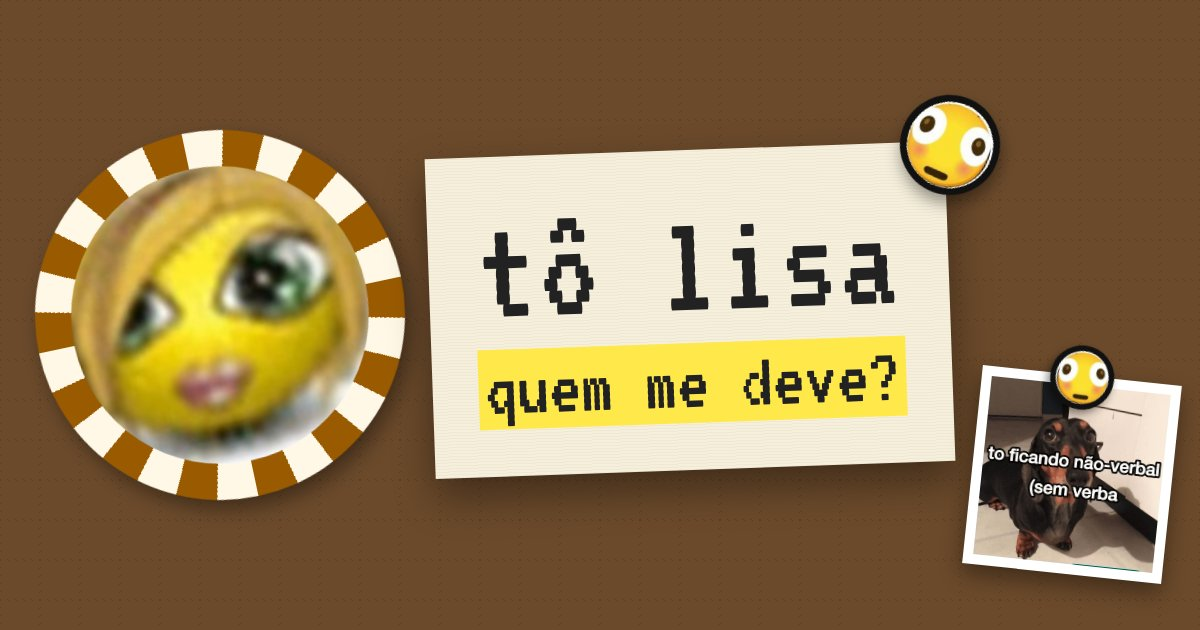
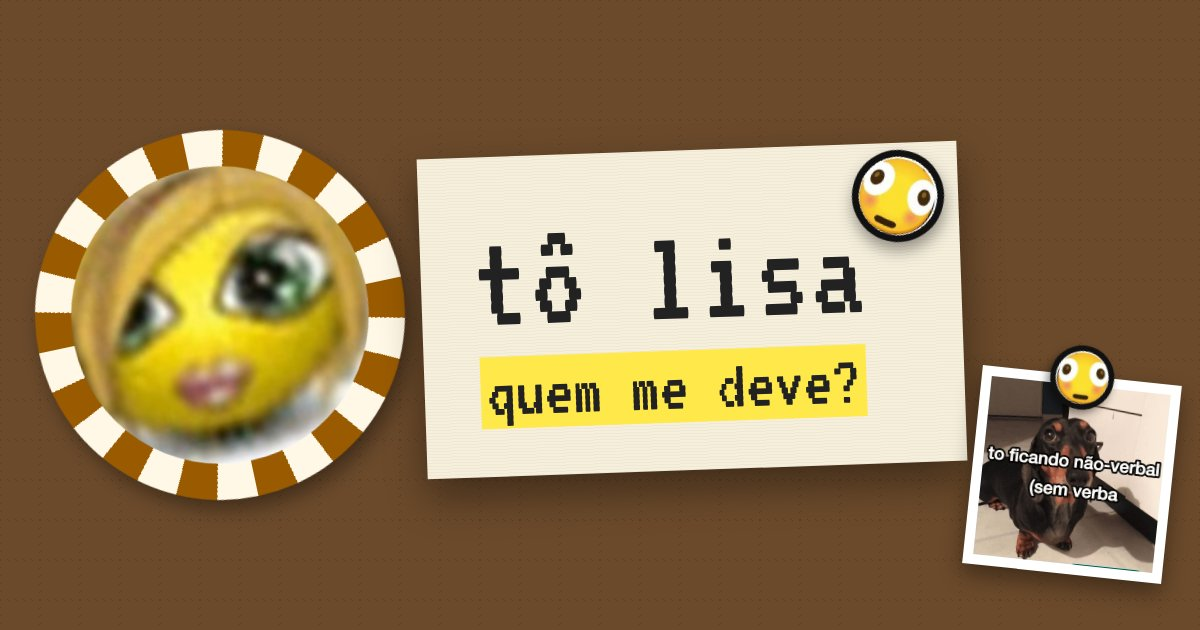
Previews no mesmo molde: pin segurando o papel e a foto, figurinha fora do papel
Claude-Session: https://claude.ai/code/session_01YTxERD5uG47DzpcJXF9uYP

Changed region(s): [[0.4008, 0.1508, 0.8325, 0.7238], [0.3392, 0.2413, 0.4008, 0.754], [0.4008, 0.3317, 0.4933, 0.5127]]

diff --git a/pago/index.html b/pago/index.html
@@ -16,7 +16,7 @@
 <meta property="og:image:type" content="image/jpeg">
 <meta property="og:image:width" content="1200">
 <meta property="og:image:height" content="630">
-<meta property="og:image:alt" content="Fundo verde com o texto: paguei, tá quitado">
+<meta property="og:image:alt" content="Fundo verde, figurinha do pix e o texto: paguei, tá quitado">
 <meta name="twitter:card" content="summary_large_image">
 <script src="/vai.js"></script>
 </head>
